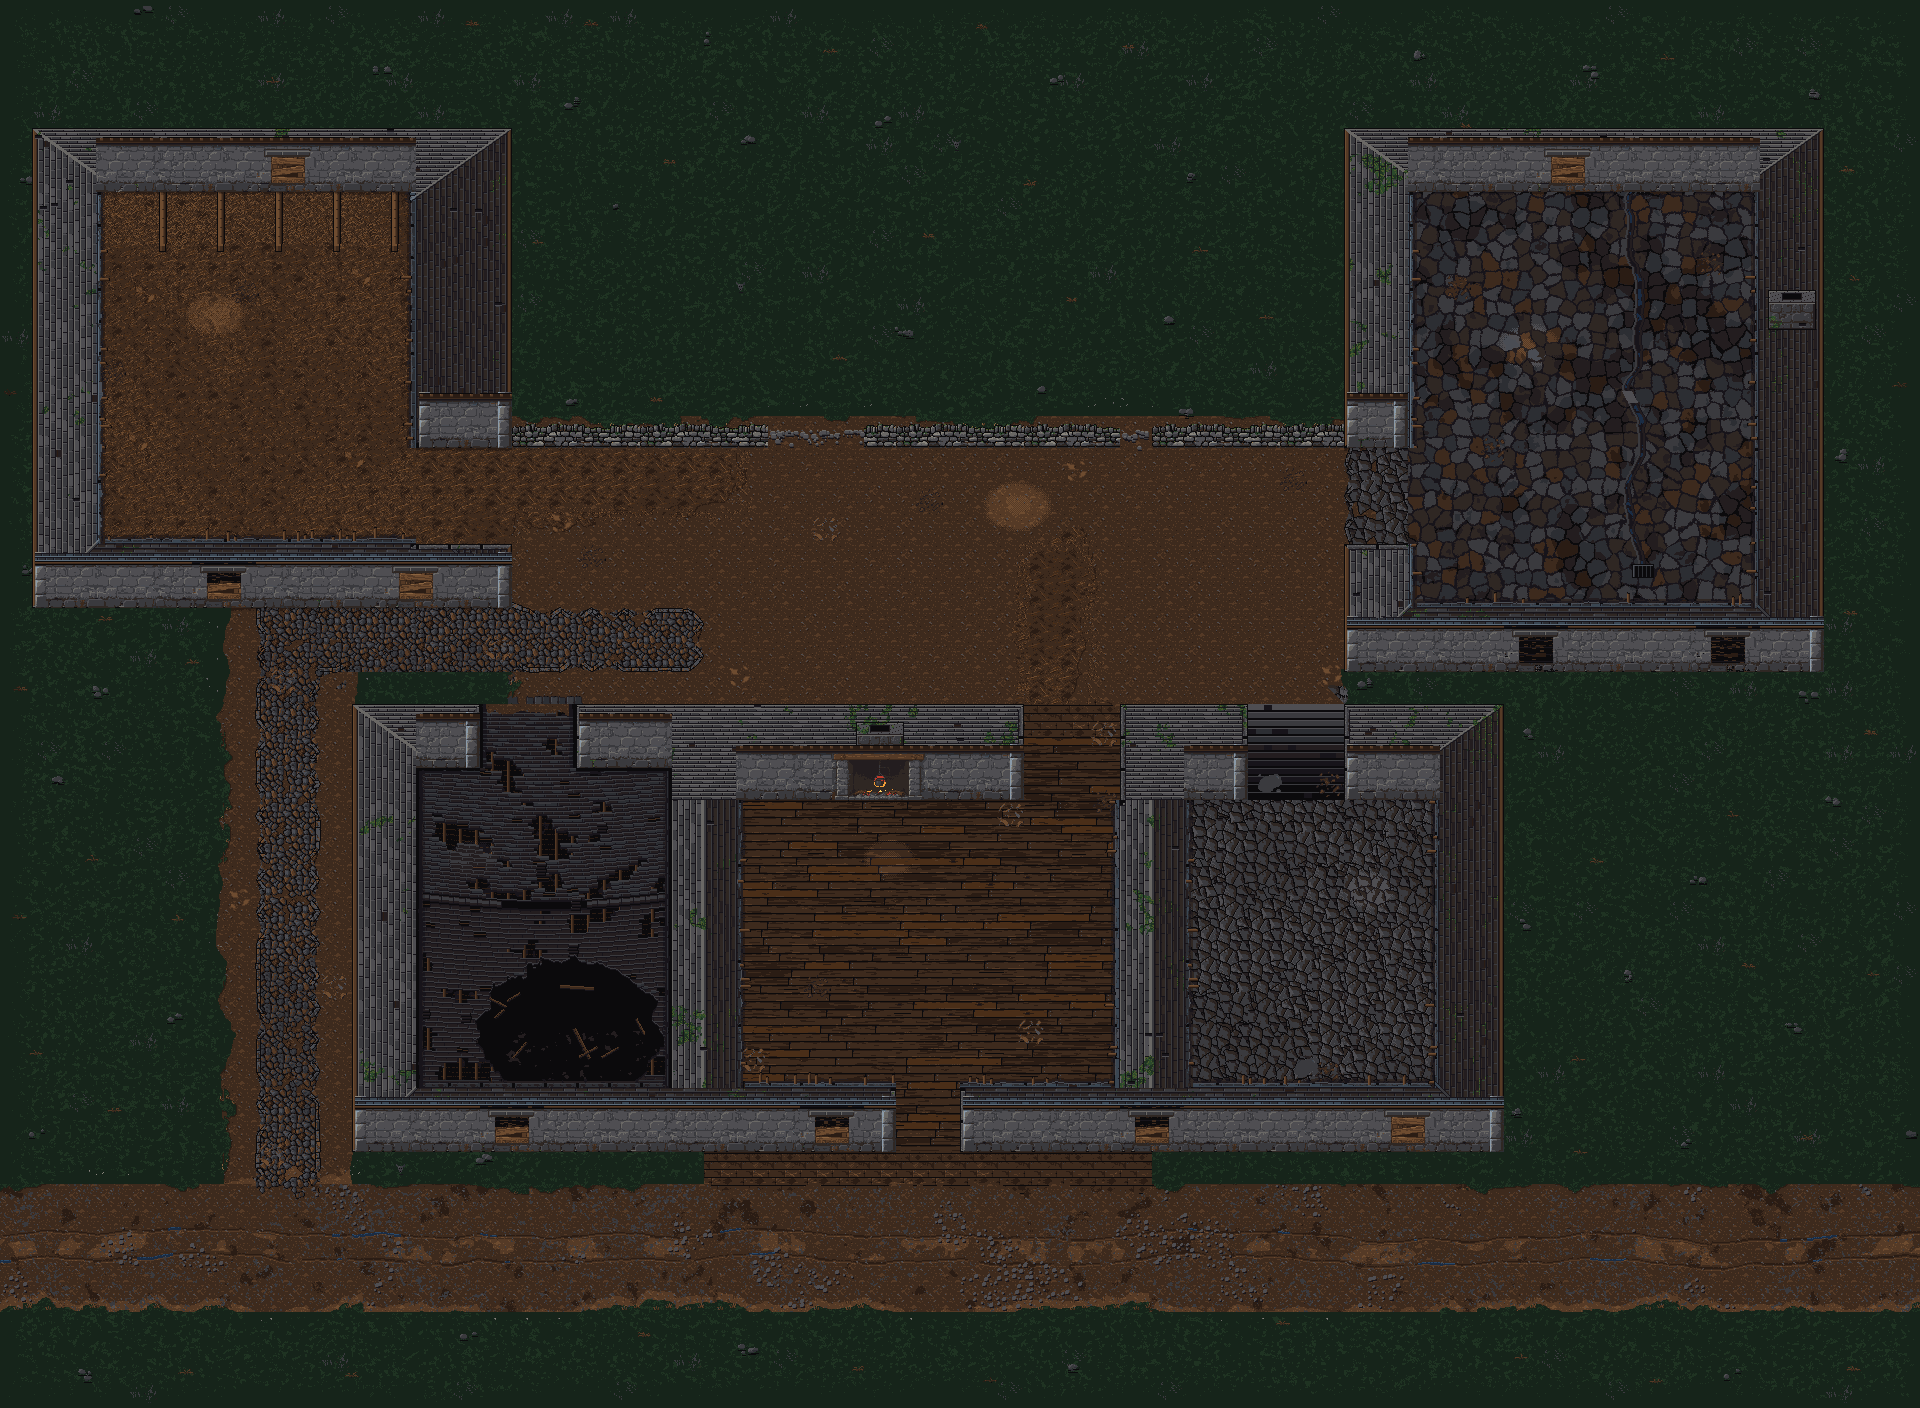
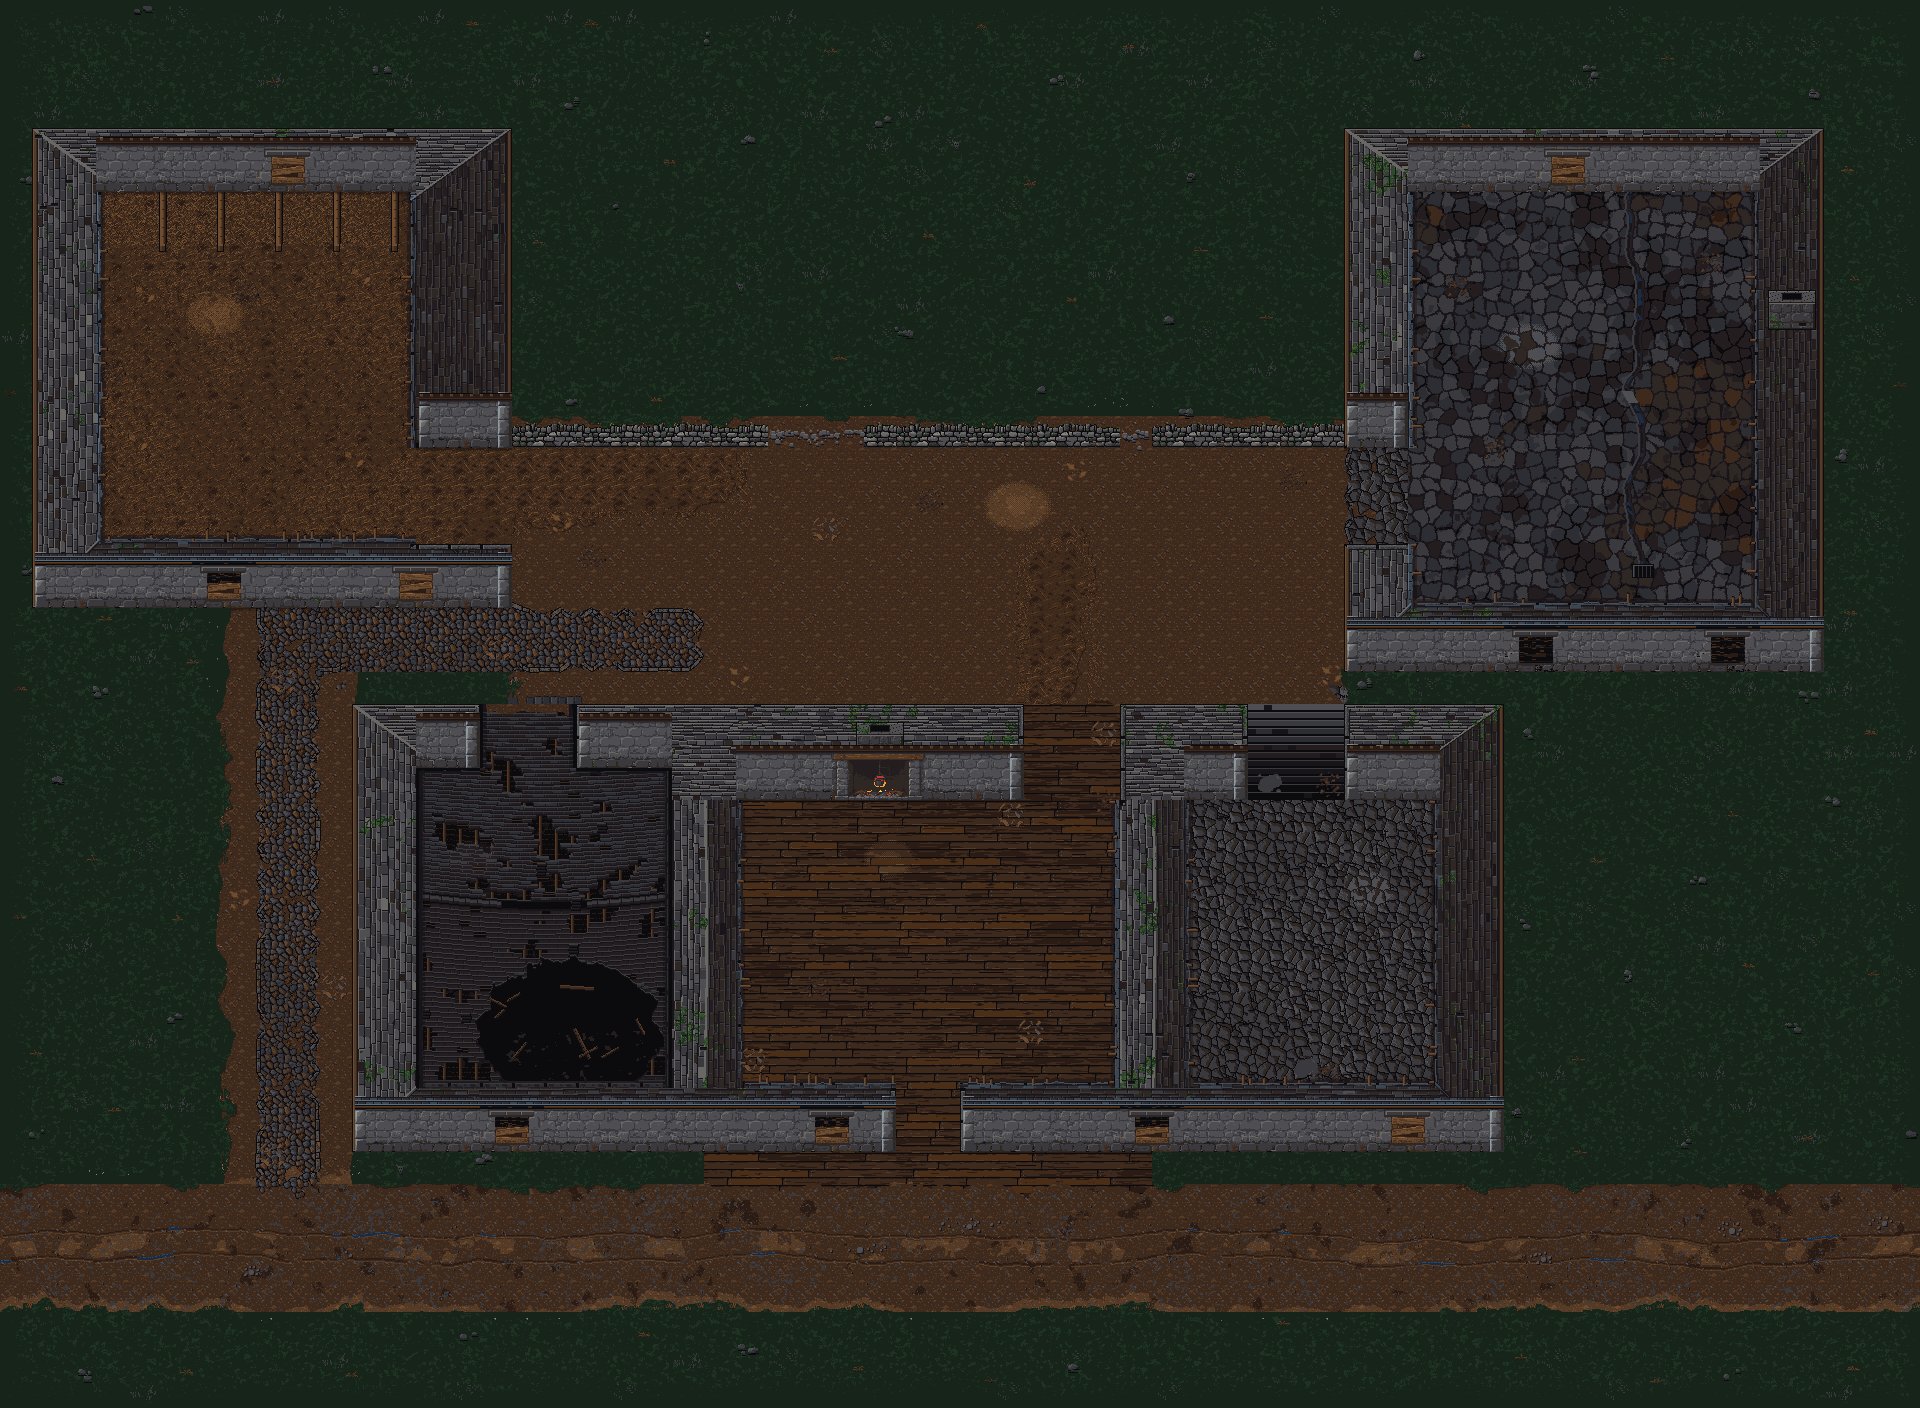
WIP lane/b-morrow-kit: Carter's Rest b7 (porch boards, flags clustered, shut copper, roof sag + broken courses, sign board, road stones)

diff --git a/src/data/world/region-kits.js b/src/data/world/region-kits.js
@@ -232,8 +232,8 @@ export const REGION_KITS = Object.freeze({
     units: ids('troll_picker slate_thrower troll_brewer stable_troll the_landlord'),
     sets: ids('morrowfolk morrow'),
     grounds: Object.freeze({
-      /* STAGED (src/data/grounds/carters_rest): the Brewhouse's copper */
-      carters_rest: Object.freeze({ family: 'morrow', signature: ids('cr_brew_kettle') }),
+      /* STAGED (src/data/grounds/carters_rest): the Brewhouse's two coppers (the second with its lid down) */
+      carters_rest: Object.freeze({ family: 'morrow', signature: ids('cr_brew_kettle cr_brew_kettle_shut') }),
     }),
     pending: ids(''),
   }),

diff --git a/src/data/grounds/carters_rest/map.js b/src/data/grounds/carters_rest/map.js
@@ -97,7 +97,7 @@ export default Object.freeze({
     {"id":"mh_straw_burst","x":11,"y":7},
     {"id":"mh_sack_spilt","x":4,"y":15},
     {"id":"cr_brew_kettle","x":46,"y":8},
-    {"id":"cr_brew_kettle","x":52,"y":16},
+    {"id":"cr_brew_kettle_shut","x":52,"y":16},
     {"id":"mh_sacks","x":51,"y":7},
     {"id":"mh_kegs","x":38,"y":26},
     {"id":"mh_keg_spilt","x":42,"y":32},
